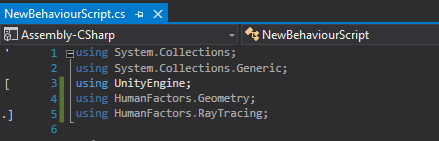
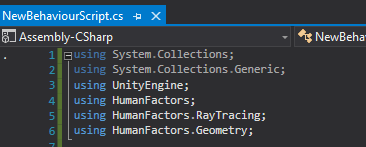
Revise Tutorial 2
- Cover enabling debug logs in unity
- Add visual for body of the start function
- Label certain images as figures
- Change the orientation and size of the plane
- Rename hit_point to intersection_point
- Add a message in visual to save the script
- Add a section specifically for saving.
- Various other refinements

diff --git a/docs/C# Documentation/markdown/2_raycast_at_plane.md b/docs/C# Documentation/markdown/2_raycast_at_plane.md
@@ -5,15 +5,13 @@ Previous Tutorial: [Project Setup](1_unity_project_setup.md)
 |
 Next Tutorial: [Graph Generator](3_graph_generator.md)
 
-## Table of Contents
-
 - [Using the RayTracer](#using-the-raytracer)
-  - [Table of Contents](#table-of-contents)
   - [Intro](#intro)
   - [Writing the Script](#writing-the-script)
     - [Using Declarations](#using-declarations)
     - [Creating a Plane](#creating-a-plane)
     - [Casting a Ray](#casting-a-ray)
+    - [Wrapping Up](#wrapping-up)
   - [Testing](#testing)
     - [Adding the script to the camera](#adding-the-script-to-the-camera)
     - [Executing the Script](#executing-the-script)
@@ -29,11 +27,13 @@ Now that we know the HumanFactors library can be referenced by our New Unity Pro
 
 ## Writing the Script
 
-In the Visual Studio window you've just opened, Look at the contents of NewBehavior Script.cs It should match this image:
+In the Visual Studio window you've just opened, Look at the contents of NewBehavior Script.cs.
 
 !["NewBehaviourScriptBlank](../assets/walkthroughs/unity/2_raycast_at_plane/blank_new_behaviour_script.png)
 
 *Figure* **2.1**
+
+Your script should match Figure 2.1.
 
 ### Using Declarations
 
@@ -45,24 +45,33 @@ using HumanFactors.RayTracing;
 using HumanFactors;
 ```
 
-The top block of your script should look like this.
+lines, 1-5 of your code should match Figure 2.2.
 
 !["NewBehaviourScript Usings"](../assets/walkthroughs/unity/2_raycast_at_plane/add_using_delcarations.png)
 
 *Figure* **2.2**
 
->**Note:** While editing your code, you may notice this colored bar to the left between the line numbers and the code itself. This bar displays the changes you've made to the current document. When you make unsaved changes it turns yellow, then once you save it will turn green.
+>**Note:** While editing your code, you may notice the colored bar to the left between the line numbers and the code itself. This bar displays the changes you've made to the current document. When you make unsaved changes the bar will appear and be colored yellow,  then once you save it will turn green.
+
+
+!["Body Of Start"](../assets/walkthroughs/unity/2_raycast_at_plane/body_of_start.png)
+
+
+*Figure* **2.3**
+
+With using declartions in place, the rest of our code will be entered in the body of the `Start()` function beginning on line 13. This section is highlighted in Figure 2.3.
+
 
 ### Creating a Plane
 
-Using HumanFactors, we will create a plane through code for our ray to intersect with. To create a mesh we require two things:
+In this section, we will create a plane through code for our ray to intersect with. To create a mesh we require two pieces of information:
 
 1) The (x,y,z) location of every vertex that comprises the mesh as an array of floats.
-2) The Indexes for each triangle or "Face" of the mesh as an array of integers.
+2) The indexes for each triangle or "face" of the mesh as an array of integers.
 
-Here are the vertex and index arrays for a 10x10 plane on the xy plane. 
+Here are the vertex and index arrays for a 10x10 plane on the xy plane.
 ``` C#
-        // Create an array of a plane's vertices and indices
+        // Create arrays for the plane's vertices and indices
         float[] plane_vertices = {
             -10f, 10f, 0f,
             -10f, -10f, 0f,
@@ -74,82 +83,158 @@ Here are the vertex and index arrays for a 10x10 plane on the xy plane.
           2, 3, 0
         };
 ```
+
 **TODO**: Replace these links with links to our documentation.
 
-For more information on what both of these arrays mean, see out the [MeshInfo Documentation]()
-We will use these arrays to construct a new **MeshInfo** object in HumanFactors.
+For more information on what both of these arrays mean, see out the [MeshInfo Documentation]().
+
+We will use these arrays to construct a new *MeshInfo* object in HumanFactors. Call the MeshInfo constructor with the two arrays we defined above.
 
 ``` C#
+        // Construct a meshinfo instance for the plane
         MeshInfo Plane = new MeshInfo(plane_indices, plane_vertices);
 ```
 
-Now that we have a plane mesh in HumanFactors, we must generate a Bounding Volume Hierarchy, or BVH, from it to use as input for the Raytracer. The BVH is an accelerated data structure that drastically reduces the time required to perform ray intersections. You can read more about the BVH in its dedicated article [Bounding Volume Hierarchy](). To generate a BVH from an instance of mesh info, just call the BVH constructor with the MeshInfo as an argument.
+Now that we have a plane mesh in HumanFactors, we must generate a *Bounding Volume Hierarchy*, or BVH, from it to use as input for the Raytracer. The BVH is an accelerated data structure that drastically reduces the time required to perform ray intersections. You can read more about the BVH in its dedicated article [Bounding Volume Hierarchy](). To generate a BVH from an instance of MeshInfo, call the BVH constructor with the MeshInfo instance as an argument.
 
 ``` C#
+        // Generate a BVH from the MeshInfo instance
         EmbreeBVH bvh = new EmbreeBVH(Plane);
 ```
 
-With the BVH created, we're now ready to call the raytracer and cast a ray.
+At this point, our start function should look like the following code:
+
+``` C# 
+    void Start()
+    {
+        // Create arrays for the plane's vertices and indices
+        float[] plane_vertices = {
+            -10f, 10f, 0f,
+            -10f, -10f, 0f,
+             10f, 10f, 0f,
+             10f, -10f, 0f
+        };
+        int[] plane_indices = {
+          3, 1, 0,
+          2, 3, 0
+        };
+
+        // Generate a BVH from the MeshInfo instance
+        MeshInfo Plane = new MeshInfo(plane_indices, plane_vertices);
+
+        // Construct a meshinfo instance for the plane
+        EmbreeBVH bvh = new EmbreeBVH(Plane);
+    }
+```
+
+!["BVH Construction Script"](../assets/walkthroughs/unity/2_raycast_at_plane/creating_a_plane.png)
+
+With the BVH created, we're  ready to call the Raytracer and cast a ray.
 
 ### Casting a Ray
 
-Depending on which function you call, the EmbreeRaytracer can return 3 different types of information: the coordinates where a ray intersected the bvh, the distance from the ray's origin to the point where it intersected the BVH, or a simple true/false value for whether or not the ray intersects the mesh. For this demo we'll be using the function [IntersectForPoint]() to get the point where the ray intersects the BVH. 
-
-We'll cast the ray from the point(1,0,1) and cast it in the direction (0,0,-1). Below is the code to do that.
+We'll put the origin point of the ray at (1,0,1) and cast it in the direction (0,0,-1). This should intersect with the plane we defined earlier at the point (1,0,0). Define an origin point and a direction for the ray.
 
 ``` C#
-        /// Fire a ray straight down at the plane, then store the result
-        Vector3D origin = new Vector3D(1, 1, 0);
-        Vector3D direction = new Vector3D(0, -1, 0);
-        var hitpoint = EmbreeRaytracer.IntersectForPoint(bvh, origin, direction);
+        // Define origin and direction
+        Vector3D origin = new Vector3D(1, 0, 1);
+        Vector3D direction = new Vector3D(0, 0, -1);
 ```
 
-Once hitpoint is obtained, we will print it using Debug.Log(). This will make it appear in the Unity console.
+Depending on which function you call, the EmbreeRaytracer can return 3 different types of information:
+
+1) The coordinates where a ray intersected the bvh.
+2) The distance from the ray's origin to the point where it intersected the BVH
+3) A boolean true/falue for whether or not the ray intersected.
+
+For this guide we will use [IntersectForPoint]() to get the point where the ray intersects the mesh. Starting on line 30 call the EmbreeRayTracer's **IntersectForPoint** function with the bvh, origin and direction as arguments.
 
 ``` C#
-        /// Print the x, y, and z components of the hitpoint
-        Debug.Log("(" + hitpoint.x + "," + hitpoint.y + "," + hitpoint.z + ")");
+        // Cast the ray, store the hitpoint.
+        Vector3D intersection_point = EmbreeRaytracer.IntersectForPoint(bvh, origin, direction);
 ```
 
-After finished your entire code should look like this. Once you've verified this is true, ***make sure to save the script  by clicking File then Save in the top menu or pressing Ctrl + S on your keyboard.***.
+Finally, log the point of intersection to Unity's console using `Debug.Log()` so we can see it.
 
-![Add Using HumanFactors](../assets/walkthroughs/unity/2_raycast_at_plane/create_plane.png)
+``` C#
+        // Print the x, y, and z components of the intersection point
+        Debug.Log(
+            "(" + intersection_point.x +
+            "," + intersection_point.y +
+            "," + intersection_point.z +
+        ")");
+```
+
+Here's all of that together:
+
+``` C#
+        // Define origin and direction
+        Vector3D origin = new Vector3D(1, 0, 1);
+        Vector3D direction = new Vector3D(0, 0, -1);
+
+        // Cast the ray, store the hitpoint
+        Vector3D intersection_point = EmbreeRaytracer.IntersectForPoint(bvh, origin, direction);
+
+        // Print the x, y, and z components of the intersection_point
+        Debug.Log(
+            "(" + intersection_point.x +
+            "," + intersection_point.y +
+            "," + intersection_point.z +
+        ")");
+```
+
+And our start function up until this point:
+
+![Casting A Ray](../assets/walkthroughs/unity/2_raycast_at_plane/casting_a_ray.png)
+
+### Wrapping Up
+
+Here is the final script we've been building in this tutorial.
 
 ``` C#
 using System.Collections;
 using System.Collections.Generic;
 using UnityEngine;
-using HumanFactors.Geometry;
-using HumanFactors.RayTracing;
 using HumanFactors;
+using HumanFactors.RayTracing;
+using HumanFactors.Geometry;
 
 public class NewBehaviourScript : MonoBehaviour
 {
     // Start is called before the first frame update
     void Start()
     {
-        /// Create an array of a plane's vertices and indices
+        // Create arrays for the plane's vertices and indices
         float[] plane_vertices = {
-            -20f, 0.0f, 20f,
-            -20f, 0.0f, -20f,
-             20f, 0.0f, 20f,
-             20f, 0.0f, -20f
+            -10f, 10f, 0f,
+            -10f, -10f, 0f,
+             10f, 10f, 0f,
+             10f, -10f, 0f
         };
-        int[] plane_indices = { 3, 1, 0, 2, 3, 0 };
+        int[] plane_indices = {
+          3, 1, 0,z
+          2, 3, 0
+        };
 
-        /// Send them to HumanFactors
+        // Generate a BVH from the MeshInfo instance
         MeshInfo Plane = new MeshInfo(plane_indices, plane_vertices);
 
-        /// Generate a BVH for the RayTracer
+        // Construct a meshinfo instance for the plane
         EmbreeBVH bvh = new EmbreeBVH(Plane);
 
-        /// Fire a ray straight down at the plane, then store the result
-        Vector3D origin = new Vector3D(1, 1, 0);
-        Vector3D direction = new Vector3D(0, -1, 0);
-        var hitpoint = EmbreeRaytracer.IntersectForPoint(bvh, origin, direction);
+        // Define origin and direction
+        Vector3D origin = new Vector3D(1, 0, 1);
+        Vector3D direction = new Vector3D(0, 0, -1);
 
-        /// Print the contents of point
-        Debug.Log("(" + hitpoint.x + "," + hitpoint.y + "," + hitpoint.z + ")");
+        // Cast the ray, store the hitpoint
+        Vector3D intersection_point = EmbreeRaytracer.IntersectForPoint(bvh, origin, direction);
+
+        // Print the x, y, and z components of the intersection_point
+        Debug.Log(
+            "(" + intersection_point.x +
+            "," + intersection_point.y +
+            "," + intersection_point.z +
+        ")");
     }
 
     // Update is called once per frame
@@ -160,9 +245,13 @@ public class NewBehaviourScript : MonoBehaviour
 }
 ```
 
+Once you've verified your code matches, ***make sure to save the script  by clicking File then Save in the top menu or pressing Ctrl + S on your keyboard.*** Unity will NOT be able to use the script unless you save it. If you're unsure, the bar on the left hand side between your code and the line numbers should be solid green, and the title of your assembly should not have an asterisk next to it.
+
+![Add Using HumanFactors](../assets/walkthroughs/unity/2_raycast_at_plane/saved_vs_unsaved.png)
+
 ## Testing
 
-Now that we have a usable script, we need to attach it to some game object in order to run it. Lets minimize the Visual Studio window and go back to the Unity Editor. 
+Now that we have a usable script, we need to attach it to some game object in order to run it. Lets minimize the Visual Studio window and go back to the Unity Editor.
 
 ### Adding the script to the camera
 
@@ -182,23 +271,34 @@ Now that we've set *NewBehaviorScript* as a component of the *Main Camera*, it's
 
 ![Look At Camera In Sidebar](../assets/walkthroughs/unity/2_raycast_at_plane/play_mode_button.png)
 
-Once clicked, you will enter play mode, and the button will turn blue. 
+Once clicked, you will enter play mode, and the button will turn blue.
 
->**NOTE:** If when entering play mode, the game window becomes full screen like below, that means you have the *Maximize On Play* option enabled. You can disable it by pressing the  *Maximize On Play* button circled in red below. For this tutorial series, we will leave this option off.
+>**NOTE:** If when entering play mode, the game window becomes full screen like below, that means you have the *Maximize On Play* option enabled. You can disable it by pressing the  *Maximize On Play* button circled in red below. For this tutorial series, we will leave this option off since it hides the console.
 ![Look At Camera In Sidebar](../assets/walkthroughs/unity/2_raycast_at_plane/playmode_maximize_on_play.png)
 
 If everything went right, then after entering play mode the console located at the bottom of your editor's window should show `(1,0,0)`, which is the exact point where the ray intersected the plane.
 
 ![Add Using HumanFactors](../assets/walkthroughs/unity/2_raycast_at_plane/console_show_meshinfo.png)
 
-Here's a magnified image of the console's output shown in the red box.
+*Figure* **2.4A**
+
+Figure 2.4B is a magnified version of the console's output enclosed by the red box shown in 2.4A.
 
 !["Console Output"](../assets/walkthroughs/unity/2_raycast_at_plane/ExpectedOutput.png)
 
+*Figure* **2.4B**
+
+>**NOTE**: If you see no output at all, that likely means your version of Unity has log messages disabled. To enable log messages click on the Console tab just above the assets window to open the console.
+> !["Change To Console"](../assets/walkthroughs/unity/2_raycast_at_plane/click_console_tab.png)
+> After this, you should notice the three buttons in the top right of the console window. The Left most button with an exclamation point in a speech bubble should be greyed out. Click on this button to enable log messages.
+> !["Enable Log Messages"](../assets/walkthroughs/unity/2_raycast_at_plane/click_to_enable_log_messages.png)
+> You will see your output in the space where the assets tab occupied, instead of the bottom bar. You can switch back to the assets window by clicking the project tab to the left of the console tab.
+> !["Back to Assets"](../assets/walkthroughs/unity/2_raycast_at_plane/enabled_log_messages.png)
+> Future calls to `Debug.Log()` will appear at the bottom of the screen like shown in Figure 2.4.
 If your console's output matches this, then you're successfully completed this tutorial. You can press the play button again to exit playmode.
 
 ## Conclusion
 
 Full project Link: [Tutorial 2: Casting a Ray at A Plane](../assets/walkthroughs/unity/2_raycast_at_plane/Tutorial%202%20-%20Unity%20Project.zip)
 
-In this tutorial we've successfully created a plane in human factors, then cast a ray at it and found the point where they have intersected. In the next tutorial we will build upon this knowledge to cover a  core part of the HumanFactors Library: The [Graph Generator](3_graph_generator.md).
+In this tutorial we've successfully created a plane from an array of vertices and triangle indexes, then casted a ray at it and found the point where the ray and the plane intersected. In the next tutorial we will build upon this knowledge to cover a core part of the HumanFactors Library: The [Graph Generator](3_graph_generator.md).
